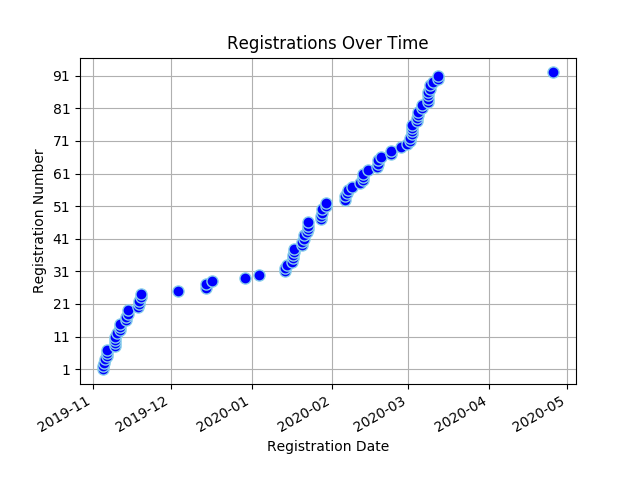
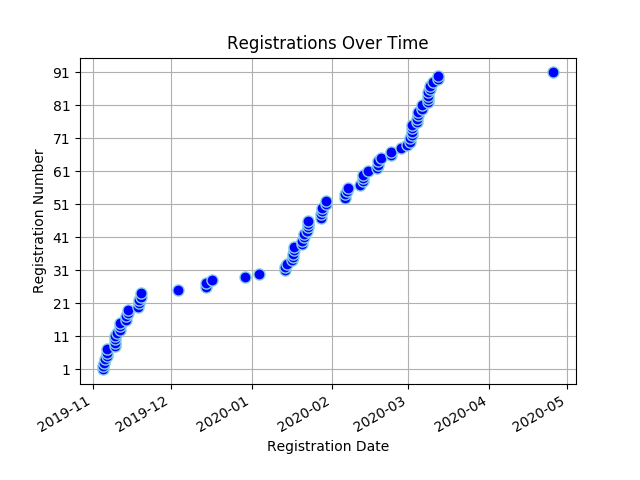
Registree stats backup on Thu Apr 30 13:34:34 SAST 2020

Changed region(s): [[0.0625, 0.1562, 0.875, 0.75], [0.0938, 0.1562, 0.125, 0.1875], [0.0625, 0.125, 0.0938, 0.1562]]

diff --git a/content/registrees/_index.md b/content/registrees/_index.md
@@ -3,9 +3,9 @@ title: Registration Stats
 draft: false
 ---
 
-<ul><li><strong>Number of Registrees</strong>: 92</li>
+<ul><li><strong>Number of Registrees</strong>: 91</li>
 
-<li><strong>Number of Clubs</strong>: 44</li>
+<li><strong>Number of Clubs</strong>: 43</li>
 
 <li><strong>Club With Most Attendees</strong>: Midrand (6 registrees)</li>
 </ul><h2>Registrees</h2>
@@ -30,6 +30,6 @@ draft: false
         </tr>
     </thead>
     <tbody>
-<tr><td>Linda Anderson</td><td>George</td></tr><tr><td>Tayebwa Smith Bamwesigye</td><td>Butterworth</td></tr><tr><td>Karl Bands</td><td>Helderkruin</td></tr><tr><td>Jonquille Bands</td><td>Helderkruin</td></tr><tr><td>Valencia Beukes</td><td>Kuilsriver</td></tr><tr><td>Lyn Botha</td><td>Cowies Hill</td></tr><tr><td>Annette Bothma</td><td>Fish Hoek</td></tr><tr><td>Jose Braga Borges</td><td>Malmesbury</td></tr><tr><td>Lynnette Virginia Christians</td><td>Cape Of Good Hope</td></tr><tr><td>Desiree Du Toit</td><td>Ramsgate</td></tr><tr><td>Charles Flanagan</td><td>Tokai</td></tr><tr><td>Julie Flanagan</td><td>Tokai</td></tr><tr><td>Bernd Gerhard</td><td>Wilro Park</td></tr><tr><td>Shirley Gerhard</td><td>Wilro Park</td></tr><tr><td>Valerie Graham</td><td>Nelspruit</td></tr><tr><td>Michael Graham</td><td>Nelspruit</td></tr><tr><td>Victor Hawla</td><td>Krugersdorp</td></tr><tr><td>Loriane Hawla</td><td>(Partner in Service)</td></tr><tr><td>Barbara Haywood</td><td>Eden</td></tr><tr><td>Wendy Higgins</td><td>Wilro Park</td></tr><tr><td>Trevor Hobbs</td><td>North Durban</td></tr><tr><td>Avril Hobbs</td><td>North Durban</td></tr><tr><td>Jacqui Hocking</td><td>Midrand</td></tr><tr><td>Cliff Hocking</td><td>Midrand</td></tr><tr><td>Leslie Human</td><td>East London Port Rex</td></tr><tr><td>Akinyemi Ismaila Tunde</td><td>-</td></tr><tr><td>Dawid Jacobs</td><td>Durbanville</td></tr><tr><td>Jean Jacobs</td><td>Mitchells Plain</td></tr><tr><td>Brenda Joshua</td><td>Cape Of Good Hope</td></tr><tr><td>Pascal Kabangu</td><td>Cape Of Good Hope</td></tr><tr><td>Ian King</td><td>Alberton</td></tr><tr><td>Sandy King</td><td>Alberton</td></tr><tr><td>Zwaai Krüger</td><td>Sedgefield</td></tr><tr><td>Bevil Lakay</td><td>Mitchells Plain</td></tr><tr><td>Paula Lang</td><td>Gordons Bay</td></tr><tr><td>James Malcolm Lang</td><td>Gordons Bay</td></tr><tr><td>Tony Marron</td><td>Kingsburgh</td></tr><tr><td>Nick Maré</td><td>Benoni Lakes</td></tr><tr><td>Beaulieu Maré</td><td>Benoni Lakes</td></tr><tr><td>Lance Maytham</td><td>Bredasdorp</td></tr><tr><td>Roy Michas</td><td>Midrand</td></tr><tr><td>Dawn Michas</td><td>Midrand</td></tr><tr><td>Patrick Mills</td><td>Centurion</td></tr><tr><td>Bernice Mills</td><td>Centurion</td></tr><tr><td>Alain Moulounda</td><td>Cape Of Good Hope</td></tr><tr><td>Suzanne Murray</td><td>Vereeniging</td></tr><tr><td>Tillie Nel</td><td>Eden</td></tr><tr><td>Pieter Nel</td><td>George</td></tr><tr><td>Michael Newlands</td><td>Port Alfred</td></tr><tr><td>Ramona Nulliah</td><td>Durban Host</td></tr><tr><td>Gary Nulliah</td><td>Durban Host</td></tr><tr><td>Teresa Pantoleon</td><td>Vereeniging</td></tr><tr><td>William Pfaff</td><td>North Durban</td></tr><tr><td>Patrick Pillay</td><td>Tygerberg Hills</td></tr><tr><td>Gavin Polkinghorne</td><td>Kensington</td></tr><tr><td>Tracey Polkinghorne</td><td>Kensington</td></tr><tr><td>Karin Preston</td><td>Durban South</td></tr><tr><td>Leon Ras</td><td>Swellendam</td></tr><tr><td>Mary-Anne Ras</td><td>Swellendam</td></tr><tr><td>Moira Rigby</td><td>Kingsburgh</td></tr><tr><td>David Rigby</td><td>Kingsburgh</td></tr><tr><td>Mark Rossouw</td><td>Tokai</td></tr><tr><td>Sharon Sampie</td><td>Bergvliet</td></tr><tr><td>Susanna Helena Smit</td><td>Centurion</td></tr><tr><td>Herman Smit</td><td>Swellendam</td></tr><tr><td>Berdine Smit</td><td>(Partner in Service)</td></tr><tr><td>Rochelle Smith</td><td>Cape Of Good Hope</td></tr><tr><td>Jeff Smith</td><td>Port Shepstone</td></tr><tr><td>Pierre Theron</td><td>Midrand</td></tr><tr><td>Moira Theron</td><td>Midrand</td></tr><tr><td>Diane Townsend</td><td>Benoni Lakes</td></tr><tr><td>Kendyl Townsend</td><td>Benoni Lakes</td></tr><tr><td>Alex Tshikala</td><td>Athlone</td></tr><tr><td>Alistair Tuckett</td><td>Roodepoort Clearwater Cyber</td></tr><tr><td>Rowan Tuckett</td><td>Roodepoort Clearwater Cyber</td></tr><tr><td>Neville Van Rensburg</td><td>Moorreesburg</td></tr><tr><td>Joyce Wilcocks</td><td>Pretoria Jakaranda</td></tr><tr><td>Richard Williams</td><td>(Partner in Service)</td></tr><tr><td>Owolabi Williams Monzur</td><td>Badagry</td></tr><tr><td>Geila Wills</td><td>Cape Town</td></tr><tr><td>Patricia Wilson</td><td>Kingsburgh</td></tr><tr><td>Judy Young</td><td>Durbanville</td></tr><tr><td>Sydney van Heerden</td><td>Wilro Park</td></tr><tr><td>Sandy van Heerden</td><td>Wilro Park</td></tr><tr><td>Lindie van Wyk</td><td>Pretoria Jakaranda</td></tr><tr><td>Vicki van Wyk</td><td>North Durban</td></tr><tr><td>Kim van Wyk</td><td>North Durban</td></tr><tr><td>Martha Maria van der Merwe</td><td>Malmesbury</td></tr><tr><td>Brian von der Decken</td><td>King William's Town</td></tr><tr><td>Janet von der Decken</td><td>(Partner in Service)</td></tr><tr><td>Andrew von der Decken</td><td>King William's Town</td></tr><tr><td>Ann von der Decken</td><td>King William's Town</td></tr>
+<tr><td>Linda Anderson</td><td>George</td></tr><tr><td>Tayebwa Smith Bamwesigye</td><td>Butterworth</td></tr><tr><td>Karl Bands</td><td>Helderkruin</td></tr><tr><td>Jonquille Bands</td><td>Helderkruin</td></tr><tr><td>Valencia Beukes</td><td>Kuilsriver</td></tr><tr><td>Annette Bothma</td><td>Fish Hoek</td></tr><tr><td>Jose Braga Borges</td><td>Malmesbury</td></tr><tr><td>Lynnette Virginia Christians</td><td>Cape Of Good Hope</td></tr><tr><td>Desiree Du Toit</td><td>Ramsgate</td></tr><tr><td>Charles Flanagan</td><td>Tokai</td></tr><tr><td>Julie Flanagan</td><td>Tokai</td></tr><tr><td>Bernd Gerhard</td><td>Wilro Park</td></tr><tr><td>Shirley Gerhard</td><td>Wilro Park</td></tr><tr><td>Valerie Graham</td><td>Nelspruit</td></tr><tr><td>Michael Graham</td><td>Nelspruit</td></tr><tr><td>Victor Hawla</td><td>Krugersdorp</td></tr><tr><td>Loriane Hawla</td><td>(Partner in Service)</td></tr><tr><td>Barbara Haywood</td><td>Eden</td></tr><tr><td>Wendy Higgins</td><td>Wilro Park</td></tr><tr><td>Trevor Hobbs</td><td>North Durban</td></tr><tr><td>Avril Hobbs</td><td>North Durban</td></tr><tr><td>Jacqui Hocking</td><td>Midrand</td></tr><tr><td>Cliff Hocking</td><td>Midrand</td></tr><tr><td>Leslie Human</td><td>East London Port Rex</td></tr><tr><td>Akinyemi Ismaila Tunde</td><td>-</td></tr><tr><td>Dawid Jacobs</td><td>Durbanville</td></tr><tr><td>Jean Jacobs</td><td>Mitchells Plain</td></tr><tr><td>Brenda Joshua</td><td>Cape Of Good Hope</td></tr><tr><td>Pascal Kabangu</td><td>Cape Of Good Hope</td></tr><tr><td>Ian King</td><td>Alberton</td></tr><tr><td>Sandy King</td><td>Alberton</td></tr><tr><td>Zwaai Krüger</td><td>Sedgefield</td></tr><tr><td>Bevil Lakay</td><td>Mitchells Plain</td></tr><tr><td>Paula Lang</td><td>Gordons Bay</td></tr><tr><td>James Malcolm Lang</td><td>Gordons Bay</td></tr><tr><td>Tony Marron</td><td>Kingsburgh</td></tr><tr><td>Nick Maré</td><td>Benoni Lakes</td></tr><tr><td>Beaulieu Maré</td><td>Benoni Lakes</td></tr><tr><td>Lance Maytham</td><td>Bredasdorp</td></tr><tr><td>Roy Michas</td><td>Midrand</td></tr><tr><td>Dawn Michas</td><td>Midrand</td></tr><tr><td>Patrick Mills</td><td>Centurion</td></tr><tr><td>Bernice Mills</td><td>Centurion</td></tr><tr><td>Alain Moulounda</td><td>Cape Of Good Hope</td></tr><tr><td>Suzanne Murray</td><td>Vereeniging</td></tr><tr><td>Tillie Nel</td><td>Eden</td></tr><tr><td>Pieter Nel</td><td>George</td></tr><tr><td>Michael Newlands</td><td>Port Alfred</td></tr><tr><td>Ramona Nulliah</td><td>Durban Host</td></tr><tr><td>Gary Nulliah</td><td>Durban Host</td></tr><tr><td>Teresa Pantoleon</td><td>Vereeniging</td></tr><tr><td>William Pfaff</td><td>North Durban</td></tr><tr><td>Patrick Pillay</td><td>Tygerberg Hills</td></tr><tr><td>Gavin Polkinghorne</td><td>Kensington</td></tr><tr><td>Tracey Polkinghorne</td><td>Kensington</td></tr><tr><td>Karin Preston</td><td>Durban South</td></tr><tr><td>Leon Ras</td><td>Swellendam</td></tr><tr><td>Mary-Anne Ras</td><td>Swellendam</td></tr><tr><td>Moira Rigby</td><td>Kingsburgh</td></tr><tr><td>David Rigby</td><td>Kingsburgh</td></tr><tr><td>Mark Rossouw</td><td>Tokai</td></tr><tr><td>Sharon Sampie</td><td>Bergvliet</td></tr><tr><td>Susanna Helena Smit</td><td>Centurion</td></tr><tr><td>Herman Smit</td><td>Swellendam</td></tr><tr><td>Berdine Smit</td><td>(Partner in Service)</td></tr><tr><td>Rochelle Smith</td><td>Cape Of Good Hope</td></tr><tr><td>Jeff Smith</td><td>Port Shepstone</td></tr><tr><td>Pierre Theron</td><td>Midrand</td></tr><tr><td>Moira Theron</td><td>Midrand</td></tr><tr><td>Diane Townsend</td><td>Benoni Lakes</td></tr><tr><td>Kendyl Townsend</td><td>Benoni Lakes</td></tr><tr><td>Alex Tshikala</td><td>Athlone</td></tr><tr><td>Alistair Tuckett</td><td>Roodepoort Clearwater Cyber</td></tr><tr><td>Rowan Tuckett</td><td>Roodepoort Clearwater Cyber</td></tr><tr><td>Neville Van Rensburg</td><td>Moorreesburg</td></tr><tr><td>Joyce Wilcocks</td><td>Pretoria Jakaranda</td></tr><tr><td>Richard Williams</td><td>(Partner in Service)</td></tr><tr><td>Owolabi Williams Monzur</td><td>Badagry</td></tr><tr><td>Geila Wills</td><td>Cape Town</td></tr><tr><td>Patricia Wilson</td><td>Kingsburgh</td></tr><tr><td>Judy Young</td><td>Durbanville</td></tr><tr><td>Sydney van Heerden</td><td>Wilro Park</td></tr><tr><td>Sandy van Heerden</td><td>Wilro Park</td></tr><tr><td>Lindie van Wyk</td><td>Pretoria Jakaranda</td></tr><tr><td>Vicki van Wyk</td><td>North Durban</td></tr><tr><td>Kim van Wyk</td><td>North Durban</td></tr><tr><td>Martha Maria van der Merwe</td><td>Malmesbury</td></tr><tr><td>Brian von der Decken</td><td>King William's Town</td></tr><tr><td>Janet von der Decken</td><td>(Partner in Service)</td></tr><tr><td>Andrew von der Decken</td><td>King William's Town</td></tr><tr><td>Ann von der Decken</td><td>King William's Town</td></tr>
 </tbody>
 </table>

diff --git a/content/full_stats/_index.md b/content/full_stats/_index.md
@@ -17,21 +17,21 @@ draft: false
 <body>
 <h1 style="color: #000000;">Full Registration Stats</h1>
 <ul><li><strong>Number of Registrees</strong><ul>
-<li><strong>Total</strong>: 92</li>
-<li><strong>Lions</strong>: 88</li>
+<li><strong>Total</strong>: 91</li>
+<li><strong>Lions</strong>: 87</li>
 <li><strong>Partners In Service</strong>: 4</li>
 </ul>
-<li><strong>Number of Clubs</strong>: 44</li>
+<li><strong>Number of Clubs</strong>: 43</li>
 <li><strong>Club With Most Attendees</strong>: Midrand (6 registrees)</li>
-<li><strong>Registrations</strong></li><ul><li><strong>Full</strong>: 89
+<li><strong>Registrations</strong></li><ul><li><strong>Full</strong>: 88
 <li><strong>Banquet</strong>: 1
 <li><strong>Convention</strong>: 2
 <li><strong>Theme</strong>: 1
 </ul><li><strong>Extra Items</strong></li><ul>
-<li><strong>Pins</strong>: 81
+<li><strong>Pins</strong>: 80
 </ul><li><strong>Extra Activities</strong></li><ul>
-<li><strong>MJF Lunch</strong>: 25
-<li><strong>PDG Breakfast</strong>: 24
+<li><strong>MJF Lunch</strong>: 24
+<li><strong>PDG Breakfast</strong>: 23
 <li><strong>Sharks Board</strong>: 4
 <li><strong>Golf</strong>: 3
 <li><strong>Sight Seeing</strong>: 11
@@ -39,12 +39,12 @@ draft: false
 <li><strong>Partner Program</strong>: 4
 </ul>
 <li><strong>Payment Details</strong></li><ul>
-<li><strong>Total Owed:</strong> R120570.00</li>
-<li><strong>Paid:</strong> R62920.00</li>
-<li><strong>Still Owed:</strong> R57650.00</li>
-<li><strong>Number of Attendees Who Have Paid in Full:</strong> 43 (46.74%)</li>
-<li><strong>Number of Attendees Who Have Paid in Part:</strong> 11 (11.96%)</li>
-<li><strong>Number of Attendees Who Haven't Paid Anything:</strong> 38 (41.30%)</li>
+<li><strong>Total Owed:</strong> R119230.00</li>
+<li><strong>Paid:</strong> R61920.00</li>
+<li><strong>Still Owed:</strong> R57310.00</li>
+<li><strong>Number of Attendees Who Have Paid in Full:</strong> 43 (47.25%)</li>
+<li><strong>Number of Attendees Who Have Paid in Part:</strong> 10 (10.99%)</li>
+<li><strong>Number of Attendees Who Haven't Paid Anything:</strong> 38 (41.76%)</li>
 </ul>
 <li><strong>Cancellations</strong></li><ul>
 <li>20-02-07 McCullough, David (reg number: 058)</li>
@@ -75,6 +75,7 @@ draft: false
 <li>20-04-28 Du Plooy, Ivan  (reg number: 100)</li>
 <li>20-04-28 Du Plooy, Peggy (reg number: 101)</li>
 <li>20-04-28 Meltzer, Mark  (reg number: 041)</li>
+<li>20-04-30 Botha, Lyn (reg number: 087)</li>
 </ul>
 <li><strong>Dietary Requirements</strong></li><ul>
 <li>Allergic to Shellfish</li>
@@ -173,17 +174,6 @@ StillOwed
 <td>1340.00</td>
 <td>1340.00</td>
 <td>0.00</td>
-</tr>
-
-    
-<tr>
-<td>87</td>
-<td>Lyn Botha</td>
-<td>Cowies Hill</td>
-<td>Lyn Botha</td>
-<td>1340.00</td>
-<td>1000.00</td>
-<td>340.00</td>
 </tr>
 
     
